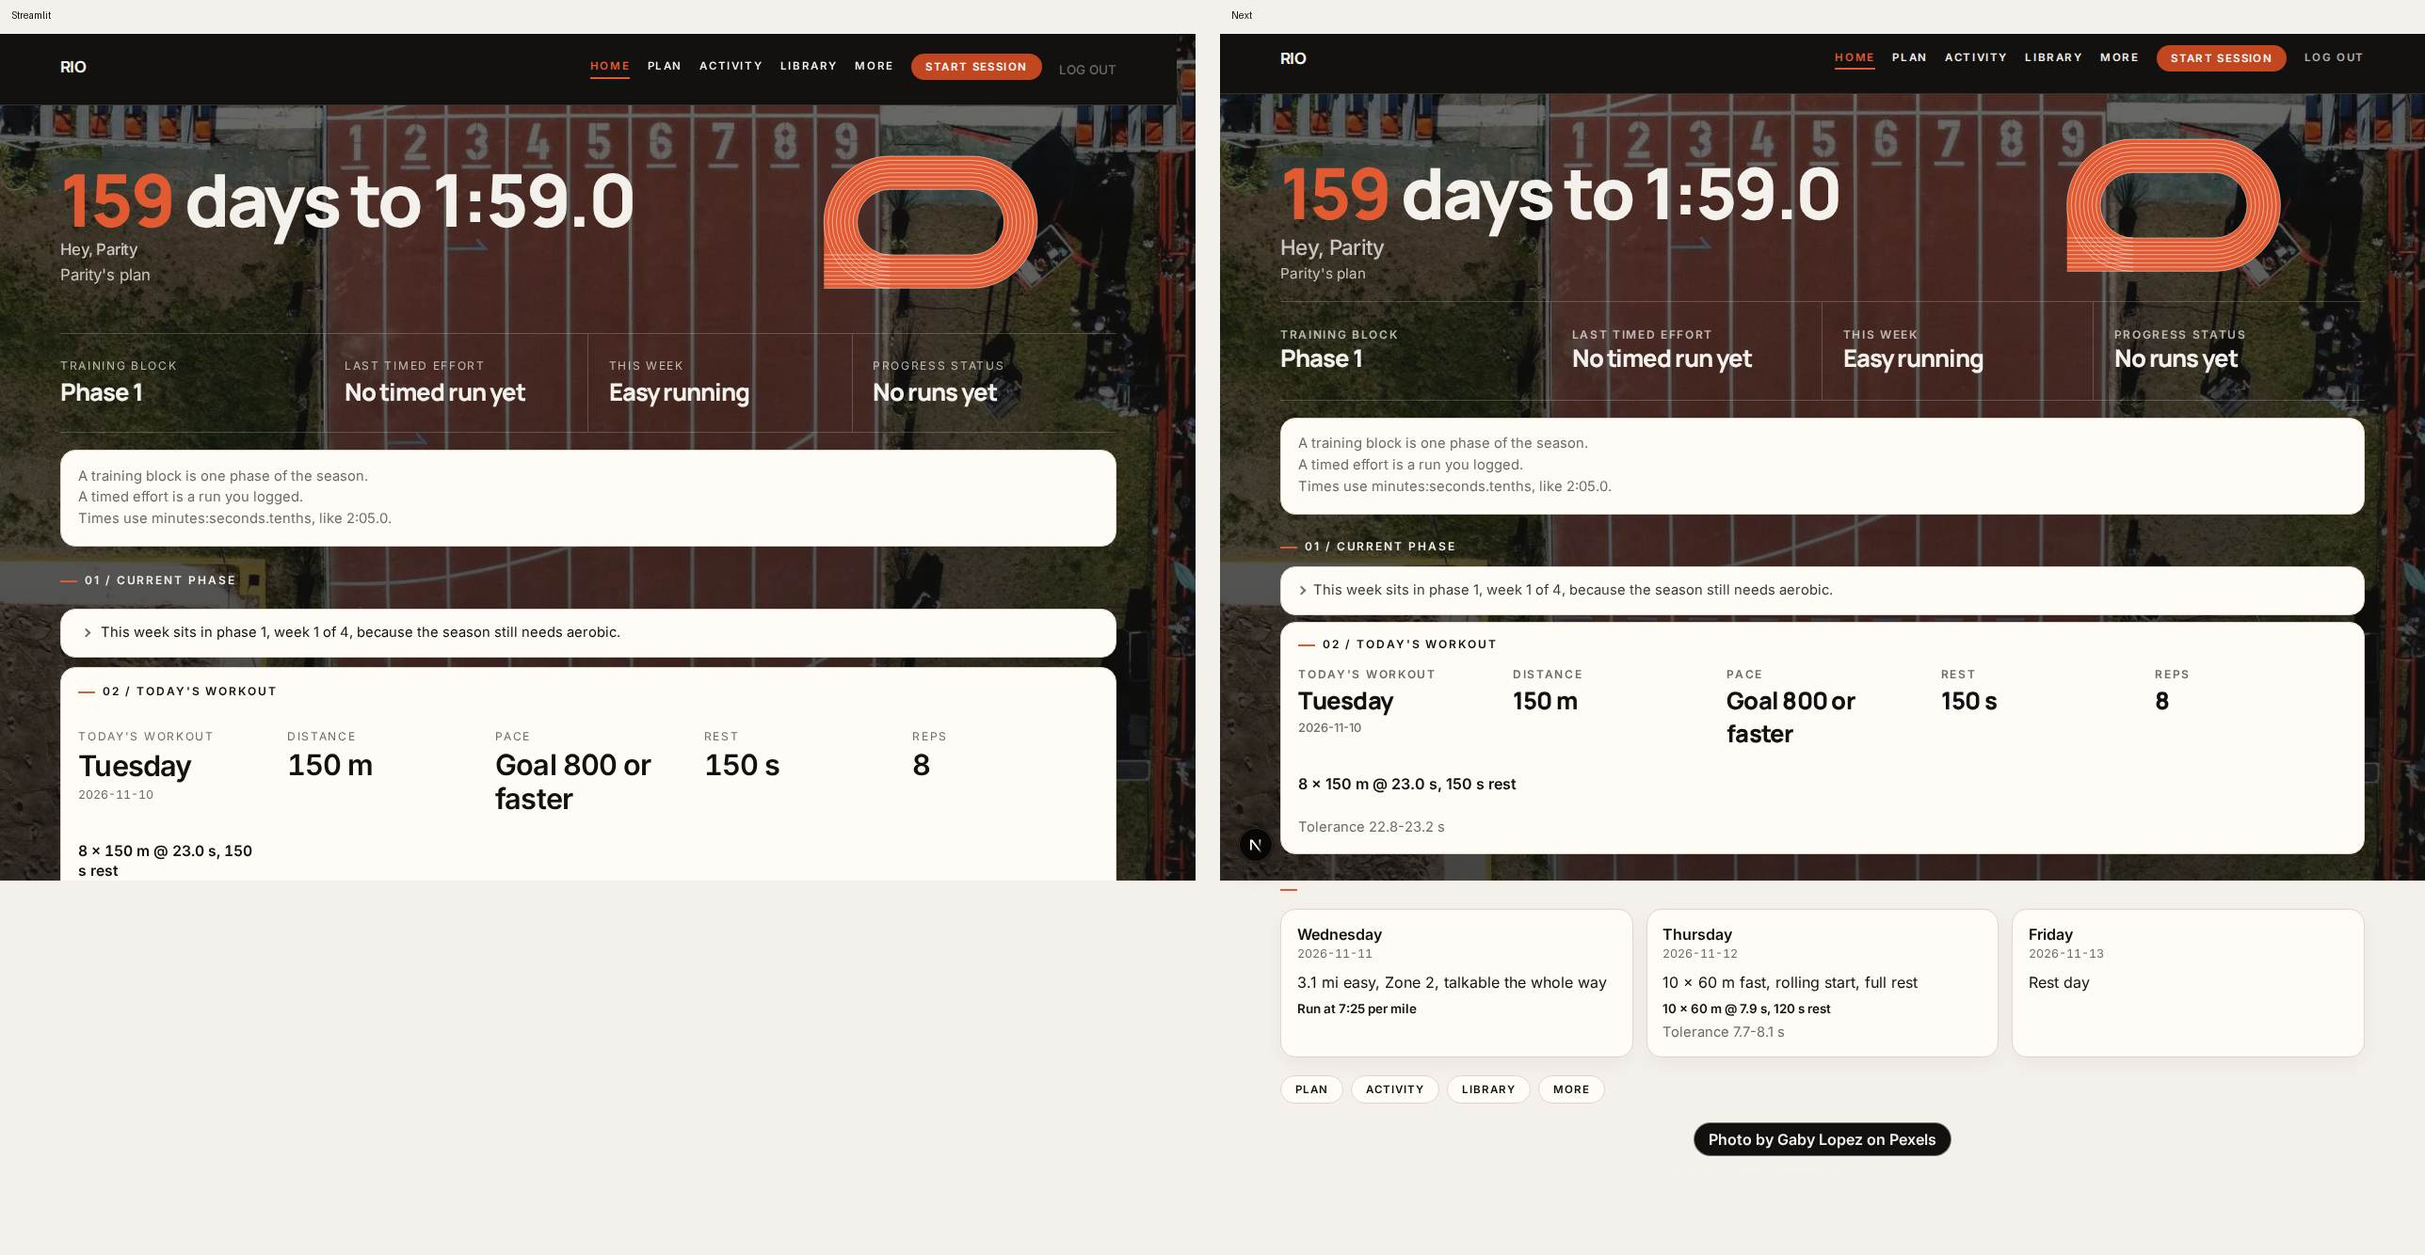
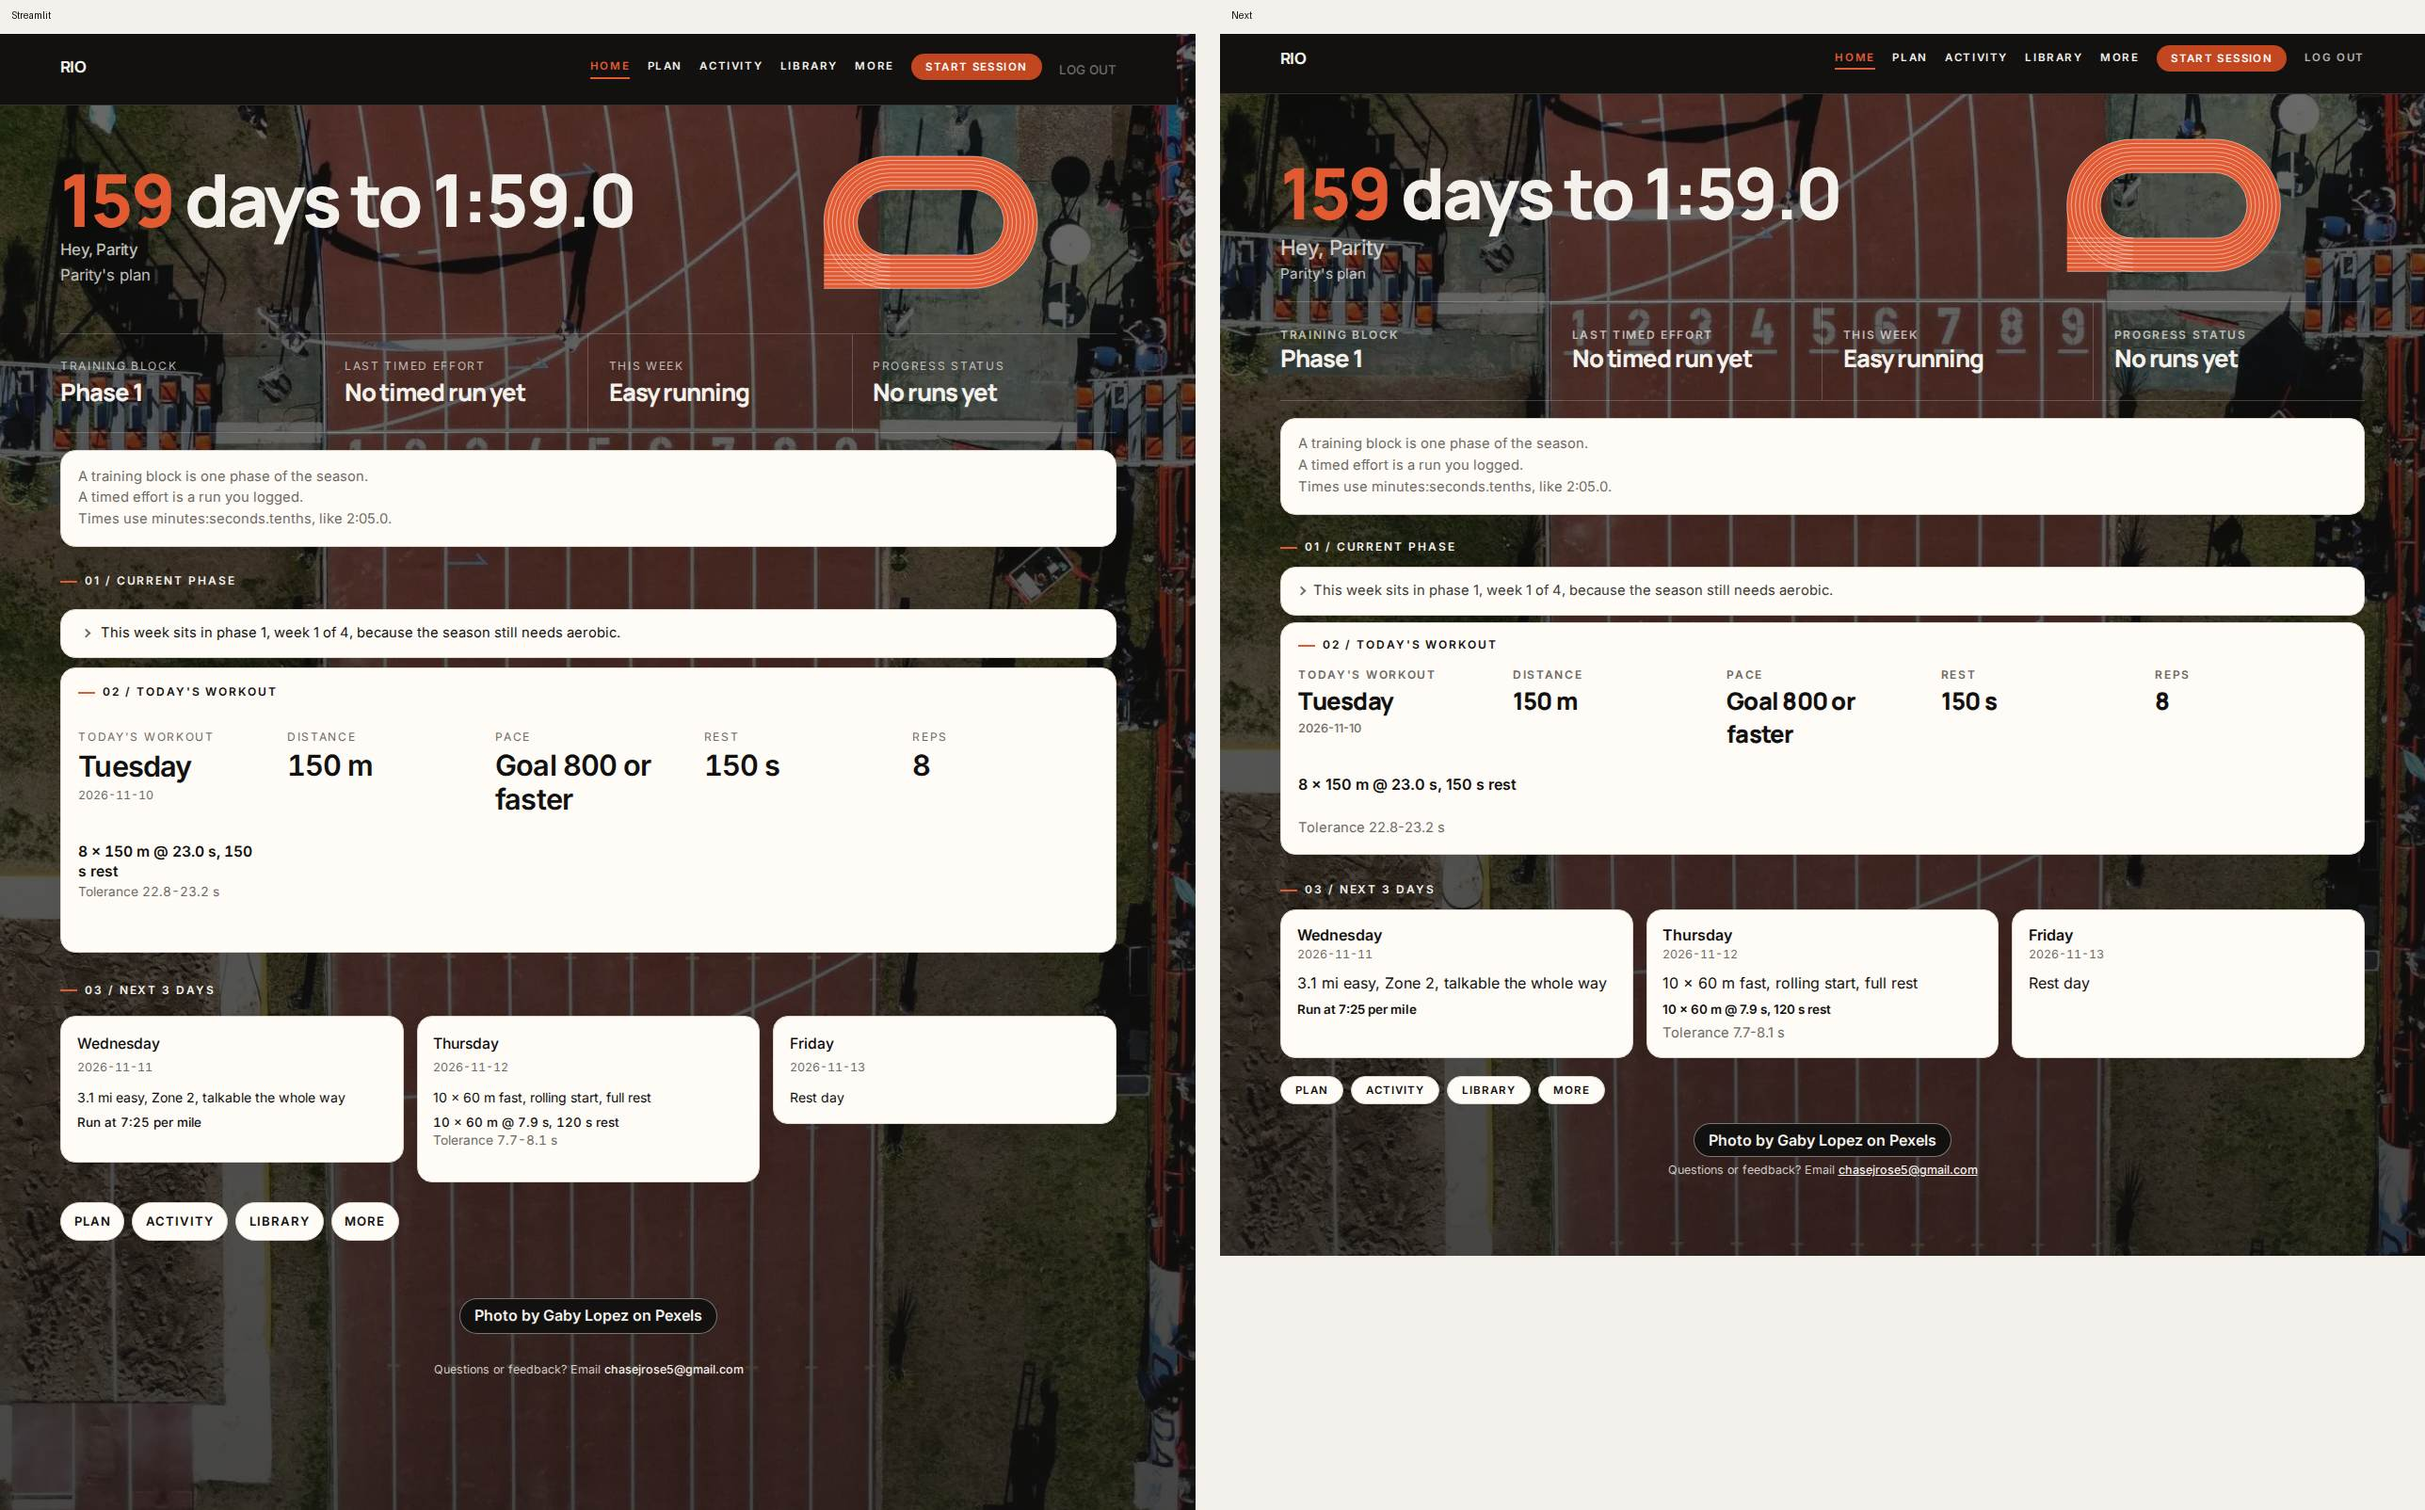
Cover the Home photo and flatten the session workout.
The aerial now paints the whole Home page, so the next-3-days label stays
visible in compact and normal mode. The session workout sits flat on the
page, and the average line stays.

diff --git a/web/e2e/display-prefs.spec.ts b/web/e2e/display-prefs.spec.ts
@@ -34,7 +34,14 @@ const home = {
     inputs: { current_time: "2:08.0", start_date: "2026-11-08", goal_time: "1:59.0", goal_date: "2027-04-18" },
     digest: "digest-1",
     view: { days_remaining: 159, phase: "4", mark: null, focus: "Speed" },
-    phase: null,
+    phase: {
+      collapsed: "This week sits in phase 1, week 1 of 4, because the season still needs aerobic.",
+    },
+    next_days: [
+      { date: "2026-11-11", shown_date: "2026-11-11", day_of_week: "Wednesday", template_id: "aer_5000_r0_x1", label: "3.1 mi easy" },
+      { date: "2026-11-12", shown_date: "2026-11-12", day_of_week: "Thursday", template_id: "mv_60_r120_x10", label: "10 × 60 m" },
+      { date: "2026-11-13", shown_date: "2026-11-13", day_of_week: "Friday", template_id: "", label: "Rest day" },
+    ],
     pace_status: "No runs yet",
     next: {
       date: "2026-11-10",
@@ -46,7 +53,6 @@ const home = {
       prescription: { line: "8 × 150 m @ 23.0 s, 150 s rest", tolerance: "22.0-24.0 s", block: "" },
     },
     upcoming: [],
-    next_days: [],
     notes: [],
   },
 };
@@ -176,6 +182,9 @@ test("compact mode tightens home, plan, session, and activity", async ({ page })
   await page.goto("/home");
   await expect(page.locator(".page-home")).toHaveClass(/is-compact/);
   await expect(page.locator(".rio-track-id")).toHaveText(template);
+  await expect(page.getByText("03  /  Next 3 days")).toBeVisible();
+  const attachment = await page.locator(".page-home").evaluate((node) => getComputedStyle(node).backgroundAttachment);
+  expect(attachment).not.toContain("fixed");
 
   await page.goto("/plan");
   await expect(page.locator(".page-plan")).toHaveClass(/is-compact/);
@@ -187,6 +196,8 @@ test("compact mode tightens home, plan, session, and activity", async ({ page })
   await page.goto("/session?date=2026-11-10");
   await expect(page.locator(".page-session")).toHaveClass(/is-compact/);
   await expect(page.locator(".rio-template-id")).toHaveText(template);
+  await expect(page.getByText("Average 23.0 s")).toBeVisible();
+  await expect(page.locator(".page-session .rio-card").first()).toHaveCSS("background-color", "rgba(0, 0, 0, 0)");
 
   await page.goto("/activity");
   await expect(page.locator(".page-activity")).toHaveClass(/is-compact/);
@@ -198,6 +209,7 @@ test("template ids stay off the track and the plan cards when the setting is off
   await page.goto("/home");
   await expect(page.locator(".page-home")).not.toHaveClass(/is-compact/);
   await expect(page.getByText("8 × 150 m @ 23.0 s, 150 s rest")).toBeVisible();
+  await expect(page.getByText("03  /  Next 3 days")).toBeVisible();
   await expect(page.locator(".rio-template-id")).toHaveCount(0);
 
   await page.goto("/plan");

diff --git a/web/app/globals.css b/web/app/globals.css
@@ -206,7 +206,10 @@ button:focus-visible, a:focus-visible, input:focus-visible, summary:focus-visibl
   background-image: var(--shade), image-set(url("/photos/home-aerial.webp") type("image/webp"), url("/photos/home-aerial.jpg") type("image/jpeg"));
   background-size: cover, cover;
   background-position: center, center;
-  background-attachment: fixed, fixed;
+  background-repeat: no-repeat;
+  /* Scroll, not fixed, so the aerial covers the whole page, including the
+     next-3-days cards, the links, the credit, and the footer. */
+  background-attachment: scroll, scroll;
   color: var(--paper);
 }
 .page-home .rio-hero { background: transparent; padding: 2.4rem 0 1.2rem; }
@@ -1004,13 +1007,15 @@ button:focus-visible, a:focus-visible, input:focus-visible, summary:focus-visibl
 .page-session .rio-hero h1 { font-size: clamp(2.6rem, 6vw, 4.4rem); color: var(--paper); max-width: 16ch; }
 .page-session .rio-range { color: #d7d2cb; }
 .page-session .rio-card {
-  margin-top: 1.2rem;
-  background: #fff;
-  border: 1px solid #dadada;
-  border-radius: 18px;
-  padding: 1.15rem 1.4rem 1.2rem;
+  margin: 0;
+  background: transparent;
+  border: 0;
+  border-top: 1px solid #dcd6cc;
+  border-radius: 0;
+  box-shadow: none;
+  padding: 2.2rem 0 1.4rem;
 }
-/* Home paints these labels cream for the dark hero. On this page they sit on white. */
+/* Home paints these labels cream for the dark hero. On this page they sit on the paper. */
 .page-session .rio-mark-label {
   margin: 0;
   padding: 0.9rem 0 0.4rem;
@@ -2208,7 +2213,15 @@ button:focus-visible, a:focus-visible, input:focus-visible, summary:focus-visibl
 .page-session.is-compact .rio-hero { padding: 1.35rem 5vw 0.85rem; }
 .page-session.is-compact .rio-hero h1 { font-size: 2.35rem; margin-top: 0.35rem; }
 .page-session.is-compact .rio-range { margin-top: 0.4rem; }
-.page-session.is-compact .rio-card { padding: 0.85rem 1.1rem 0.7rem; margin-bottom: 0.7rem; }
+.page-session.is-compact .rio-card {
+  padding: 0.85rem 1.1rem 0.7rem;
+  margin-bottom: 0.7rem;
+  background: transparent;
+  border: 0;
+  border-top: 1px solid #dcd6cc;
+  border-radius: 0;
+  box-shadow: none;
+}
 
 .page-activity.is-compact .rio-hero { padding: 1.35rem 5vw 0.85rem; }
 .page-activity.is-compact .rio-hero h1 { font-size: 2.35rem; margin-top: 0.35rem; }

diff --git a/docs/migration/parity-audit.md b/docs/migration/parity-audit.md
@@ -67,7 +67,9 @@ Severity: low. Closed.
 
 The toggle saves on both apps. Streamlit injects `_COMPACT_CSS` on every signed-in page. Next adds `is-compact` on Home, Plan, Session, and Activity, with the same hero, card, day-card, day-row, track, and chart padding. The stored value is unchanged.
 
-Evidence: `web/e2e/display-prefs.spec.ts`; `docs/migration/parity-evidence/side/home-compact.jpg`; `docs/migration/parity-evidence/side/plan-week-compact.jpg`; `docs/migration/parity-evidence/side/activity-compact.jpg`; `docs/migration/parity-evidence/side/session-compact.jpg`. Each pair is one full-page shot of each app after the fade, in America/Los_Angeles. They are not stitched.
+The Home aerial covers the whole page in compact and normal mode, including the next-3-days cards, the links, the credit, and the footer. The `03  /  Next 3 days` label stays on that photo.
+
+Evidence: `web/e2e/display-prefs.spec.ts`; `docs/migration/parity-evidence/side/home.jpg`; `docs/migration/parity-evidence/side/home-compact.jpg`; `docs/migration/parity-evidence/side/plan-week-compact.jpg`; `docs/migration/parity-evidence/side/activity-compact.jpg`; `docs/migration/parity-evidence/side/session-compact.jpg`. Each pair is one full-page shot of each app after the fade, in America/Los_Angeles. They are not stitched.
 
 ### 4. Template ids stay off the Home track and the Plan cards
 
@@ -118,7 +120,7 @@ Hosting: Next serves the public origin. The API is a separate process with the e
 
 `tests/test_parity_plan.py` generates six seasons through `POST /seasons` and compares every session to `sequence()`: week, day, date, template, reasons, target, and `ontology_version`. The Saturday long-run ids are the same list and each id is on the frozen 500 m ladder. Easy pace `7:25` per mile and `4:36` per kilometer change the continuous line to `Run at 7:25 per mile` and `Run at 4:36 per kilometer`. With no pace saved, that line is `Set your easy pace before this run.` Quality rep lines, tolerances, and the average do not change when the easy pace changes. Per km changes a continuous distance and does not change a rep clock. Today follows `America/Los_Angeles` and `Pacific/Auckland` through the same `local_today` Streamlit uses.
 
-The plan week side-by-side shows the same lines on screen, including `8 × 150 m @ 23.0 s, 150 s rest`, `Run at 7:25 per mile`, and the long-run miles (`5.9`, `6.2`, `6.5`, then up the ladder). The dedicated Session side-by-side is `docs/migration/parity-evidence/side/session.jpg`. Both apps show Tuesday 2026-11-10, `8 × 150 m @ 23.0 s, 150 s rest`, tolerance `22.8-23.2 s`, and the prep notes. It is one full-page shot of each app after the fade, in America/Los_Angeles, not stitched. `average_rep_text` is still asserted on `GET /sessions/{date}`.
+The plan week side-by-side shows the same lines on screen, including `8 × 150 m @ 23.0 s, 150 s rest`, `Run at 7:25 per mile`, and the long-run miles (`5.9`, `6.2`, `6.5`, then up the ladder). The dedicated Session side-by-side is `docs/migration/parity-evidence/side/session.jpg`. Both apps show Tuesday 2026-11-10, `8 × 150 m @ 23.0 s, 150 s rest`, `Average 23.0 s`, tolerance `22.8-23.2 s`, and the prep notes. The workout block sits flat on the page. It is one full-page shot of each app after the fade, in America/Los_Angeles, not stitched. `average_rep_text` is still asserted on `GET /sessions/{date}`.
 
 ## Feature table
 
@@ -314,7 +316,7 @@ PASS means the same thing is reachable with the same words or the same workout. 
 | Z6. Jay Rose placeholder | docs/migration/parity-evidence/text/creators.hidden.diff | PASS |
 | Z7. Legacy activity tables | web/components/ActivityView.tsx `rio-legacy-activity` | PASS |
 | Z8. Planned versus actual | docs/migration/parity-evidence/side/plan-week.jpg | PASS |
-| Compact mode on Home, Plan, Session, and Activity | web/e2e/display-prefs.spec.ts; docs/migration/parity-evidence/side/home-compact.jpg; docs/migration/parity-evidence/side/plan-week-compact.jpg; docs/migration/parity-evidence/side/activity-compact.jpg; docs/migration/parity-evidence/side/session-compact.jpg | PASS |
+| Compact mode on Home, Plan, Session, and Activity | web/e2e/display-prefs.spec.ts; docs/migration/parity-evidence/side/home.jpg; docs/migration/parity-evidence/side/home-compact.jpg; docs/migration/parity-evidence/side/plan-week-compact.jpg; docs/migration/parity-evidence/side/activity-compact.jpg; docs/migration/parity-evidence/side/session-compact.jpg | PASS |
 | Template ids on the Home track and Plan cards | web/e2e/display-prefs.spec.ts; docs/migration/parity-evidence/side/home-compact.jpg; docs/migration/parity-evidence/side/plan-week-compact.jpg; docs/migration/parity-evidence/side/plan-season-compact.jpg | PASS |
 | Signup confirmation redirect | tests/test_auth_mail.py; ui/cloud_store.py `email_redirect_to` | PASS |
 | Progress page | ui/streamlit_app.py `page_progress` is not registered in `st.navigation` | N/A |
